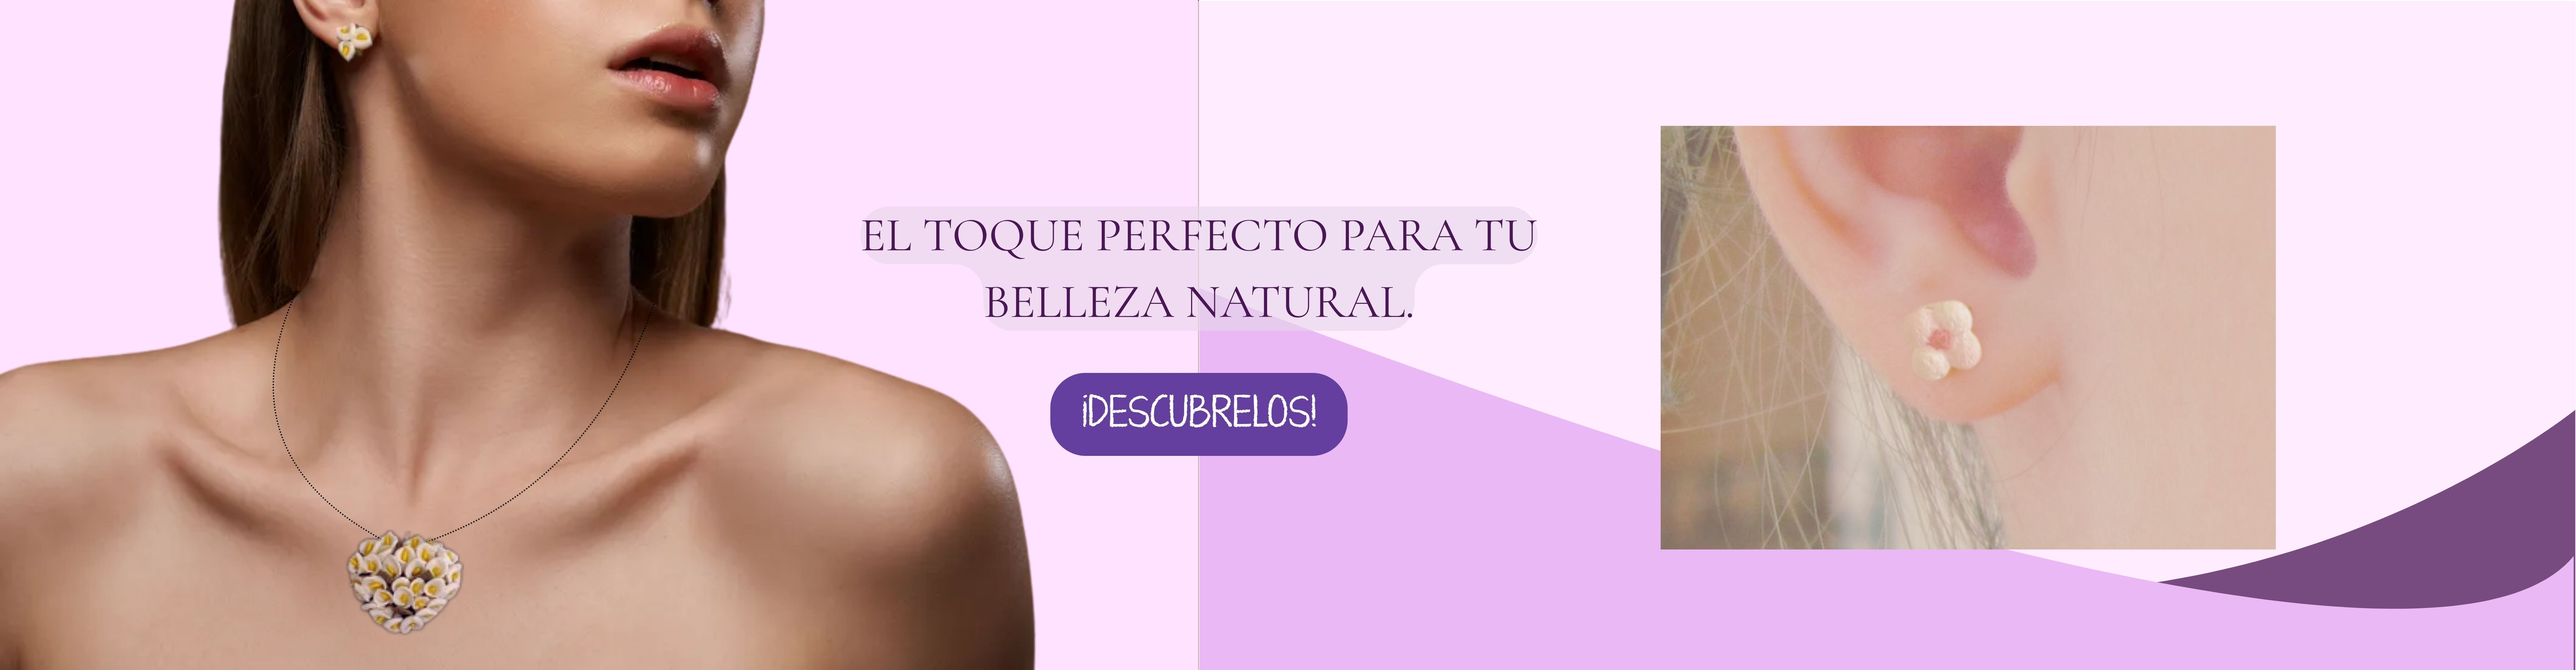
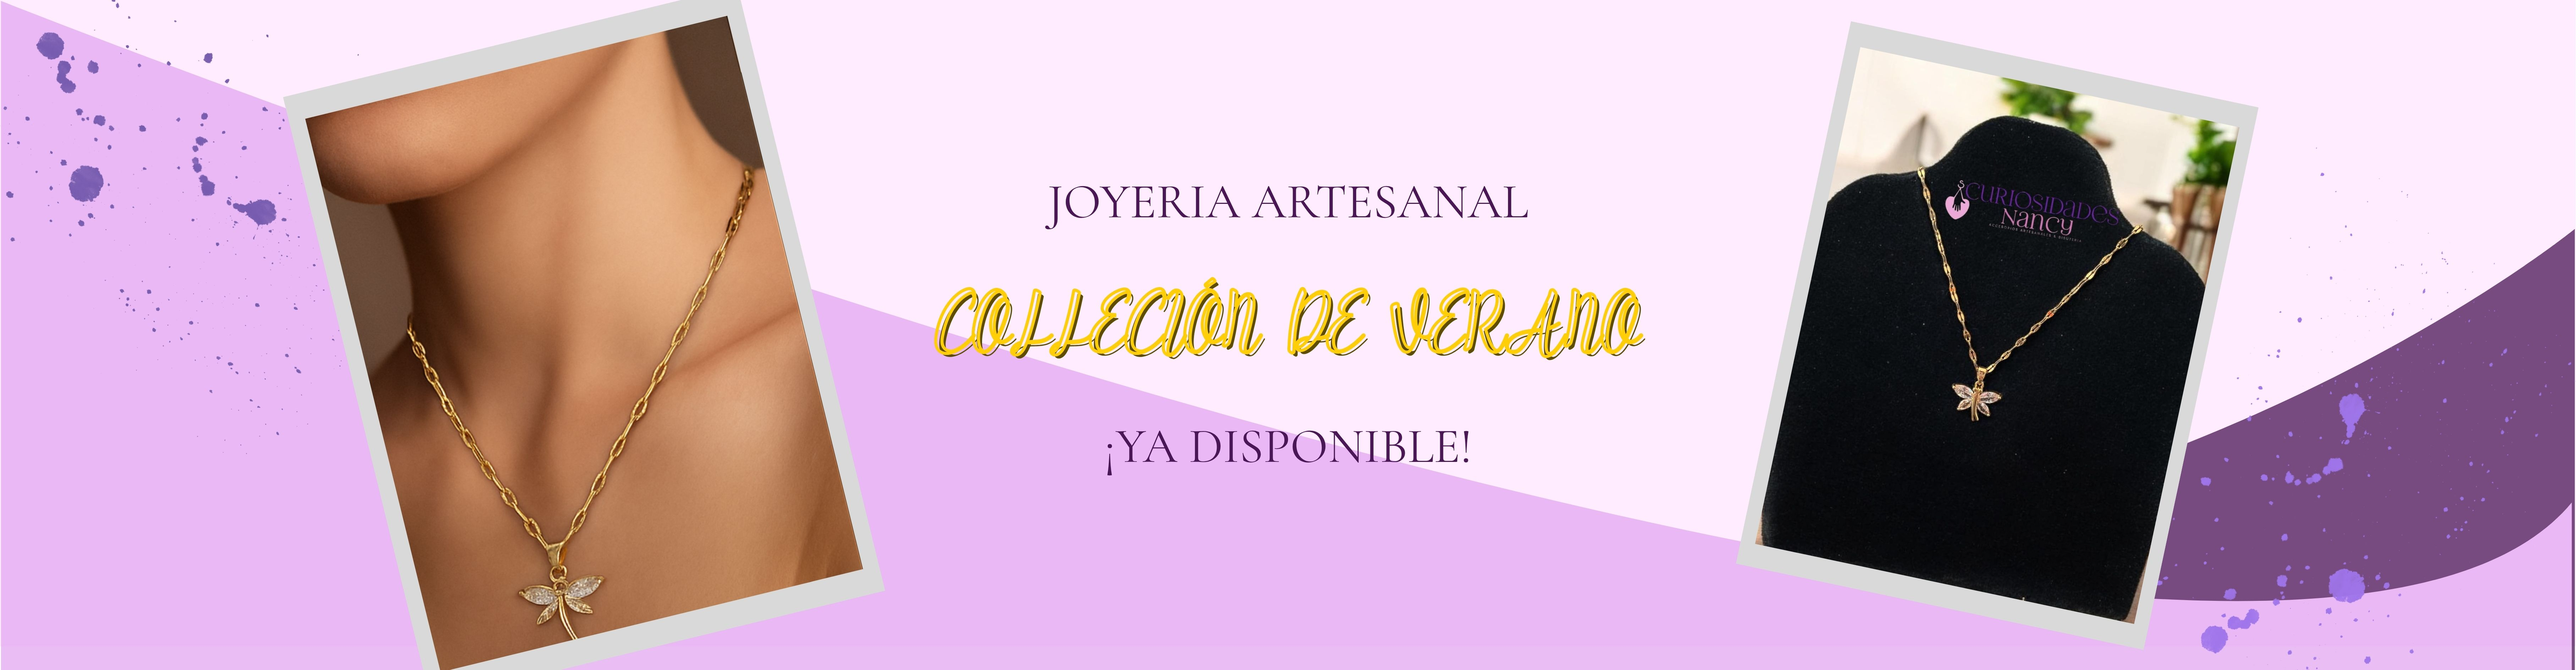
Nueva imagen carrusel

diff --git a/src/paginas/Aretes.jsx b/src/paginas/Aretes.jsx
@@ -1,8 +1,10 @@
 import React, { useState, useEffect } from "react";
 import "./estilos/Aretes.css";
+import Separar from "../componentes/Separador NavBar/Separador";
 
 const Aretes = () => {
   const [productos, setProductos] = useState([]);
+  const [mostrarFiltros, setMostrarFiltros] = useState(false);
 
   useEffect(() => {
     // Aquí puedes hacer la petición a la base de datos (ej. fetch/axios)
@@ -15,17 +17,35 @@ const Aretes = () => {
     ]);
   }, []);
 
+  // Cierra los filtros al cambiar el tamaño de pantalla a desktop
+  useEffect(() => {
+    const handleResize = () => {
+      if (window.innerWidth > 768) setMostrarFiltros(false);
+    };
+    window.addEventListener("resize", handleResize);
+    return () => window.removeEventListener("resize", handleResize);
+  }, []);
+
   return (
     <div className="aretes-page">
+      <Separar />
       {/* Banner principal */}
       <div className="banner-aretes">
         <img src="/fondoAretes.jpg" alt="Banner Aretes" />
         <h2>¡Demuestra tu autenticidad con nuestros aretes!</h2>
       </div>
 
+      {/* Botón Filtro solo en móvil */}
+      <button
+        className="btn-filtro-movil"
+        onClick={() => setMostrarFiltros((prev) => !prev)}
+      >
+        {mostrarFiltros ? "Cerrar filtros" : "Filtro"}
+      </button>
+
       <div className="contenido-aretes">
         {/* Filtros */}
-        <aside className="filtros">
+        <aside className={`filtros ${mostrarFiltros ? "filtros-movil-activo" : ""}`}>
           <h3>Filtrar por:</h3>
 
           <div className="filtro-categoria">

diff --git a/src/paginas/estilos/Aretes.css b/src/paginas/estilos/Aretes.css
@@ -1,4 +1,3 @@
-
 /* Estilos generales */
 .aretes-page {
   padding: 0;
@@ -125,6 +124,67 @@
 
 .mostrar-mas-btn:hover {
   background-color: #c2a7c9;
+}
+
+/* Botón filtro solo visible en móvil */
+.btn-filtro-movil {
+  display: none;
+  width: 100%;
+  background: #dac0de;
+  color: #222;
+  border: none;
+  padding: 1rem;
+  font-size: 1.1rem;
+  font-weight: bold;
+  cursor: pointer;
+  border-radius: 0;
+  margin: 0;
+  transition: background 0.2s;
+}
+
+.btn-filtro-movil:active,
+.btn-filtro-movil:focus {
+  background: #c2a7c9;
+}
+
+/* Panel de filtros en móvil */
+@media screen and (max-width: 768px) {
+  .btn-filtro-movil {
+    display: block;
+  }
+  .contenido-aretes {
+    flex-direction: column;
+    gap: 1rem;
+  }
+  .filtros {
+    display: none;
+    position: fixed;
+    top: 60px;
+    left: 0;
+    width: 100vw;
+    max-width: 100vw;
+    background: #fff;
+    z-index: 1001;
+    box-shadow: 0 8px 32px rgba(0,0,0,0.18);
+    border-radius: 0 0 16px 16px;
+    padding: 2rem 1.5rem 1.5rem 1.5rem;
+    animation: slideDown 0.3s;
+  }
+  .filtros.filtros-movil-activo {
+    display: block;
+  }
+  .productos {
+    grid-template-columns: repeat(auto-fill, minmax(150px, 1fr));
+  }
+  /* Opcional: oscurecer fondo cuando filtros están activos */
+  body:has(.filtros-movil-activo) {
+    overflow: hidden;
+  }
+}
+
+@keyframes slideDown {
+  from { transform: translateY(-40px); opacity: 0; }
+  to { transform: translateY(0); opacity: 1; }
 }
 
 /* Responsive */

diff --git a/src/componentes/Carrusel/Carrusel.jsx b/src/componentes/Carrusel/Carrusel.jsx
@@ -6,7 +6,7 @@ import "swiper/css/navigation";
 import "../Carrusel/Carrusel.css";
 import carrusel1 from "../../imagenes/carrusel/img1_carrusel.jpg";
 import carrusel2 from "../../imagenes/carrusel/img2_carrusel.jpg";
-import carrusel3 from "../../imagenes/carrusel/img3_carrusel.jpeg";
+import carrusel3 from "../../imagenes/carrusel/img3_carrusel.jpg";
 
 const Carrusel = () => (
   <div className="carrusel-container">
@@ -25,6 +25,11 @@ const Carrusel = () => (
       <SwiperSlide>
         <div className="slide-wrapper">
           <img src={carrusel2} alt="Banner" />
+        </div>
+      </SwiperSlide>
+            <SwiperSlide>
+        <div className="slide-wrapper">
+          <img src={carrusel3} alt="Banner" />
         </div>
       </SwiperSlide>
     </Swiper>
